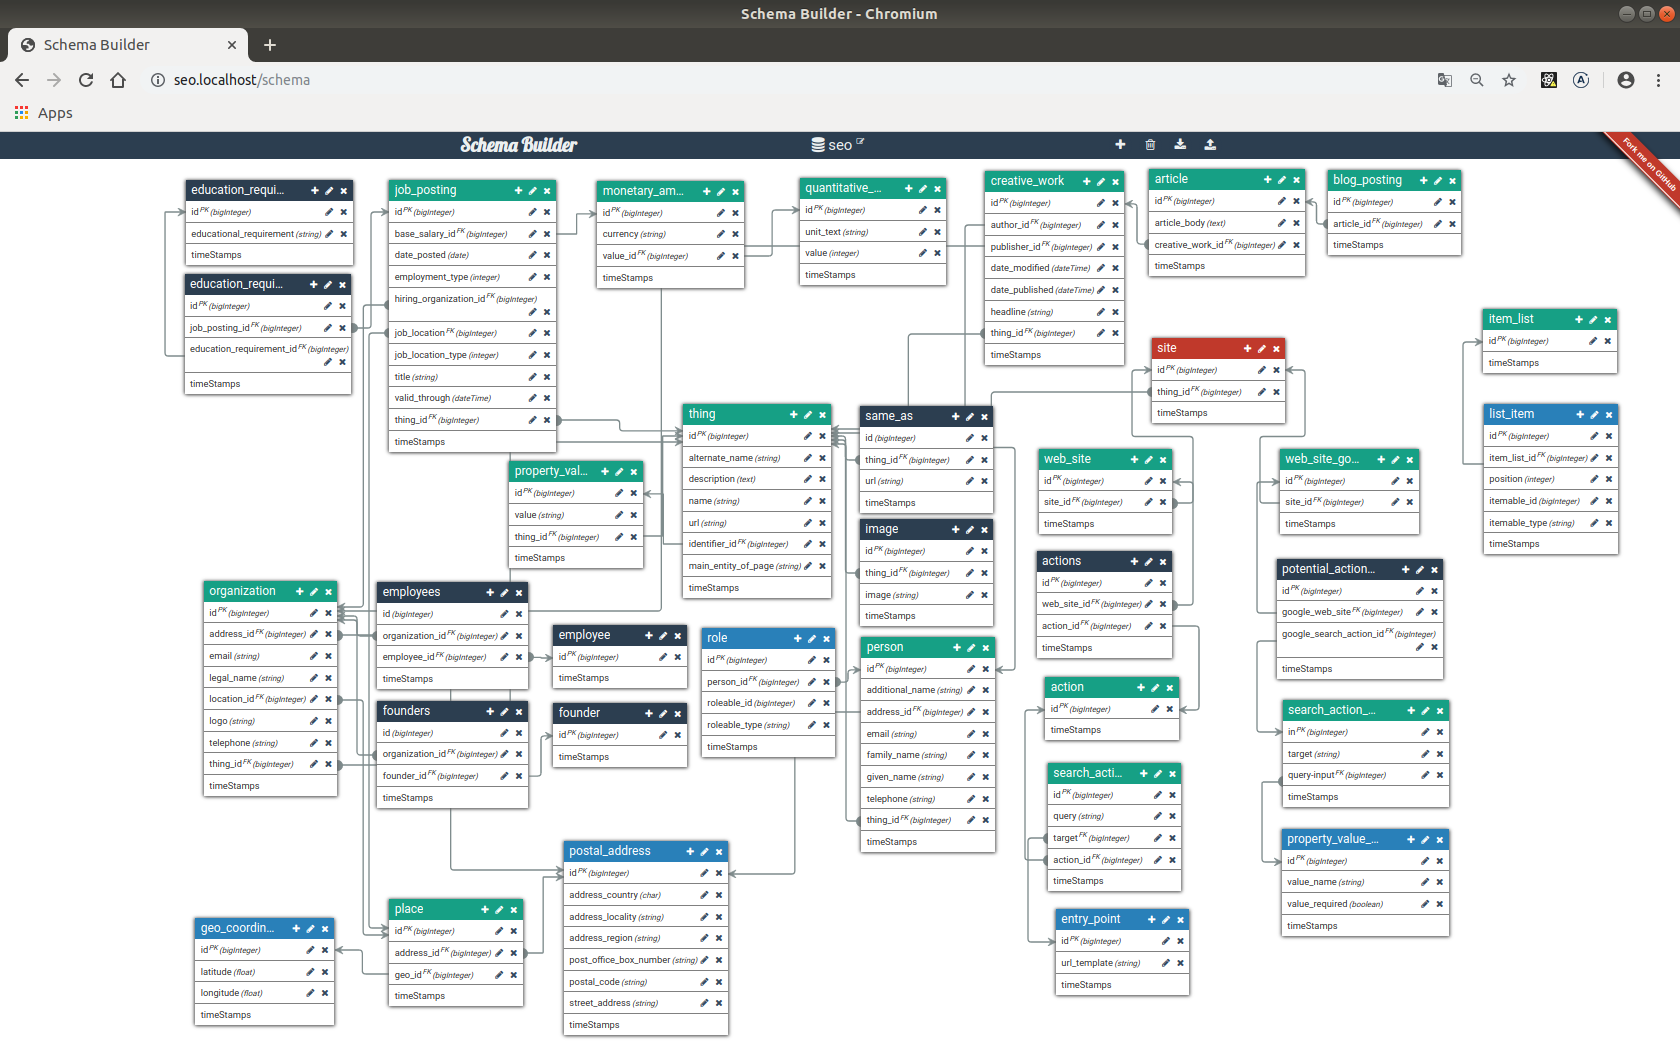
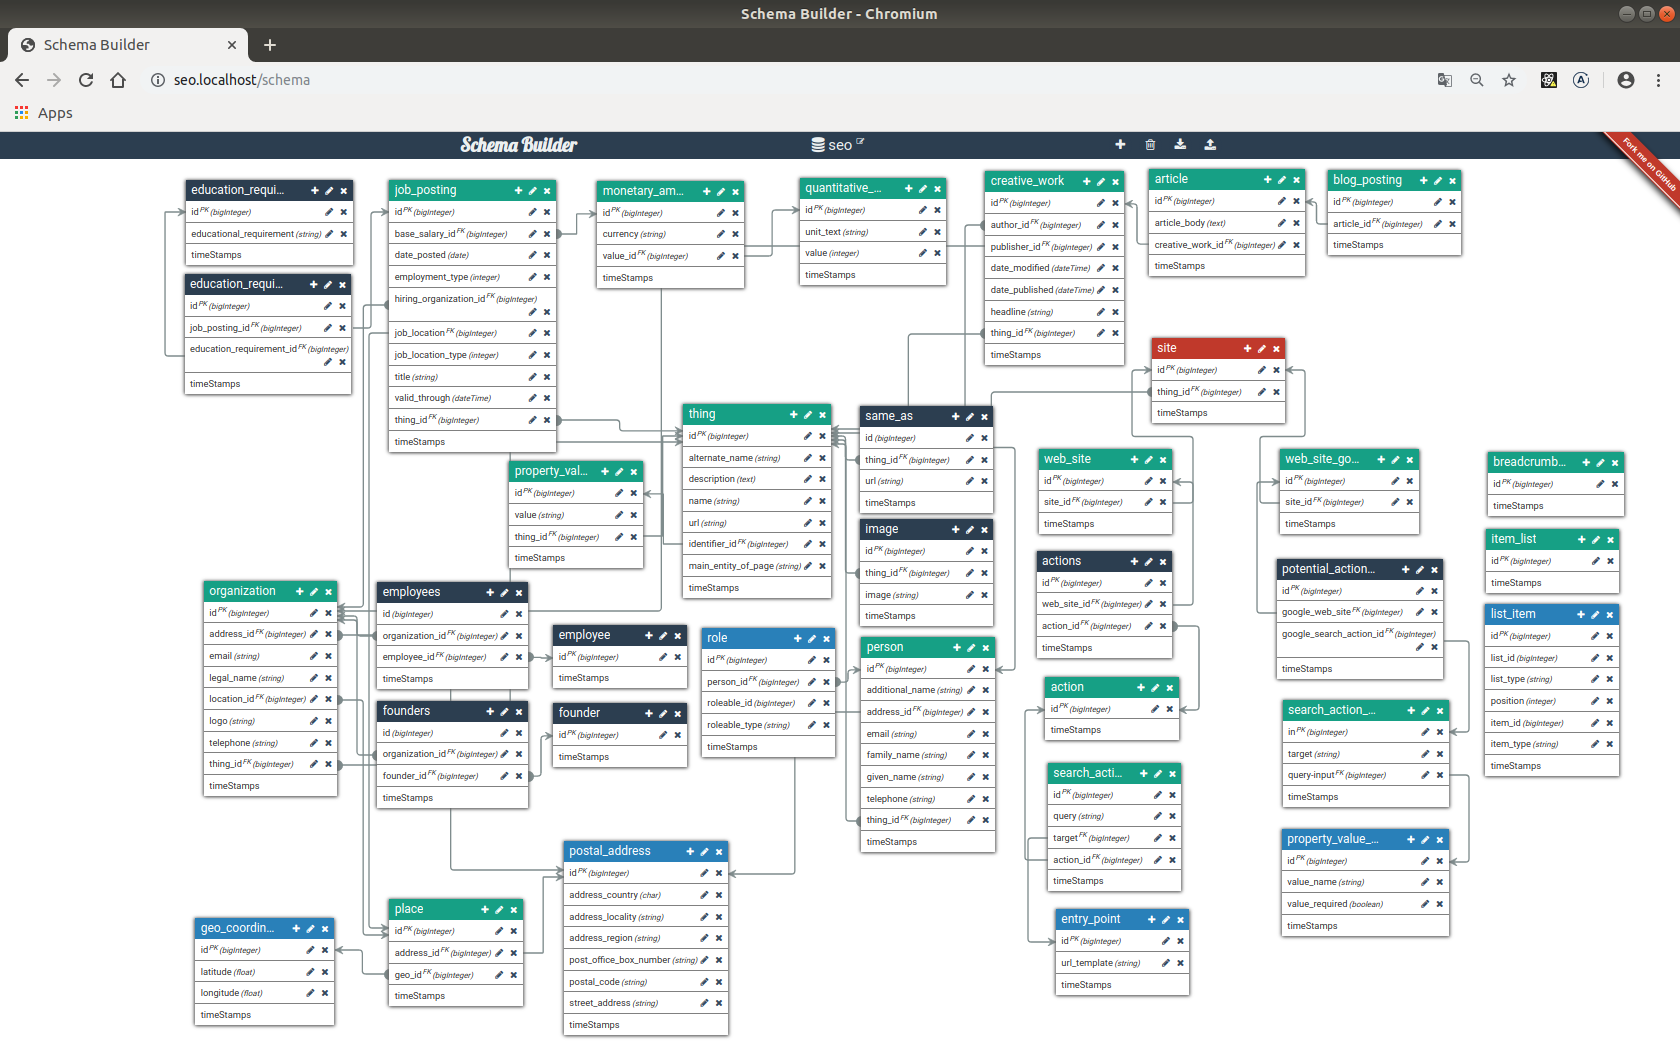
Breadcrump start

Changed region(s): [[0.8667, 0.2743, 0.9905, 0.7619]]

diff --git a/readme.md b/readme.md
@@ -29,6 +29,8 @@ See the output
 - [Article](https://developers.google.com/search/docs/data-types/article)
     - [blog_posting/2/schema_org](https://raw.githubusercontent.com/noud/seo/master/database/output/blog_posting/duodeka.blog_posting.2.json)
     - [blog_posting/3/schema_org](https://raw.githubusercontent.com/noud/seo/master/database/output/blog_posting/duodeka.blog_posting.3.json)
+- [Breadcrumb](https://developers.google.com/search/docs/data-types/breadcrumb)
+    - [breadcrumb/1/schema_org](https://raw.githubusercontent.com/noud/seo/master/database/output/duodeka.breadcrumb.1.json) @todo
 - [Carousel](https://developers.google.com/search/docs/data-types/carousel)
     - [carousel/1/schema_org](https://raw.githubusercontent.com/noud/seo/master/database/output/blog_posting/duodeka.carousel.blog_posting.json)
     - [carousel_summary/1/schema_org](https://raw.githubusercontent.com/noud/seo/master/database/output/blog_posting/duodeka.carousel.summary.blog_posting.json)
@@ -94,6 +96,9 @@ php artisan code:models
     - [Article](https://schema.org/Article)
     - [NewsArticle](https://schema.org/NewsArticle)
     - [BlogPosting](https://schema.org/BlogPosting)
+- [Breadcrumb](https://developers.google.com/search/docs/data-types/breadcrumb) consists of
+    - [BreadcrumbList](https://schema.org/BreadcrumbList)
+    - [ListItem](https://schema.org/ListItem)
 - [Carousel](https://developers.google.com/search/docs/data-types/carousel) consists of
     - [ItemList](https://schema.org/ItemList)
     - [ListItem](https://schema.org/ListItem)
@@ -117,6 +122,7 @@ php artisan code:models
     - [Place](https://schema.org/Place)
     - Intangible
         - [ItemList](http://schema.org/ItemList)
+            - [BreadcrumbList](https://schema.org/BreadcrumbList)
         - [JobPosting](https://schema.org/JobPosting)
         - [ListItem](http://schema.org/ListItem)
         - [PropertyValueSpecification](https://schema.org/PropertyValueSpecification)
